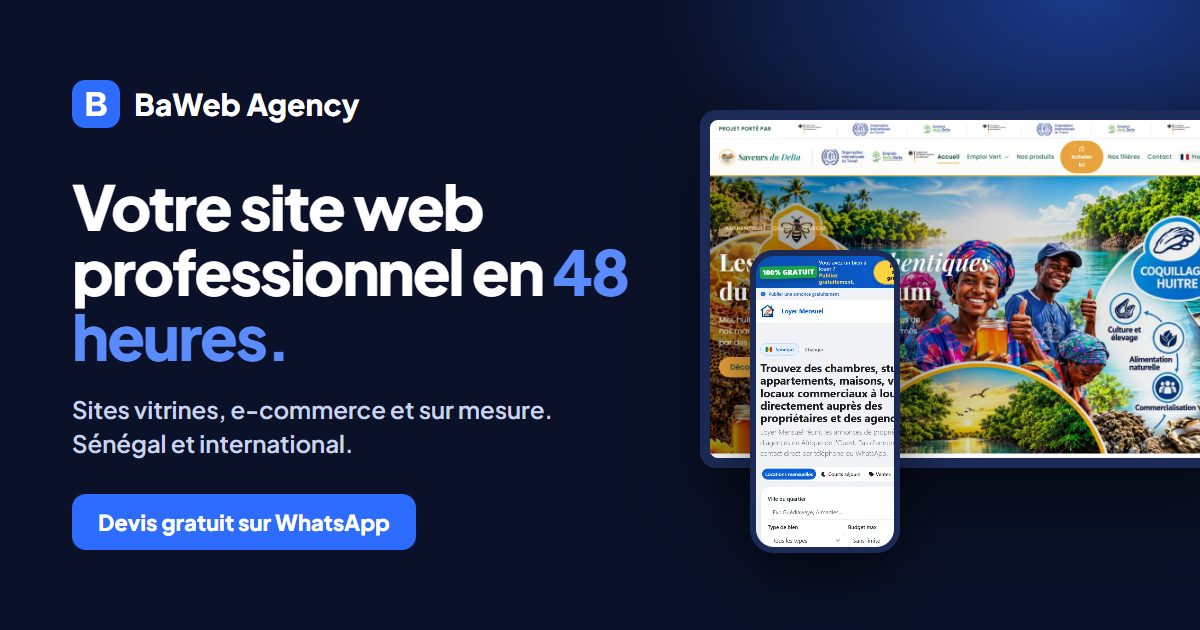
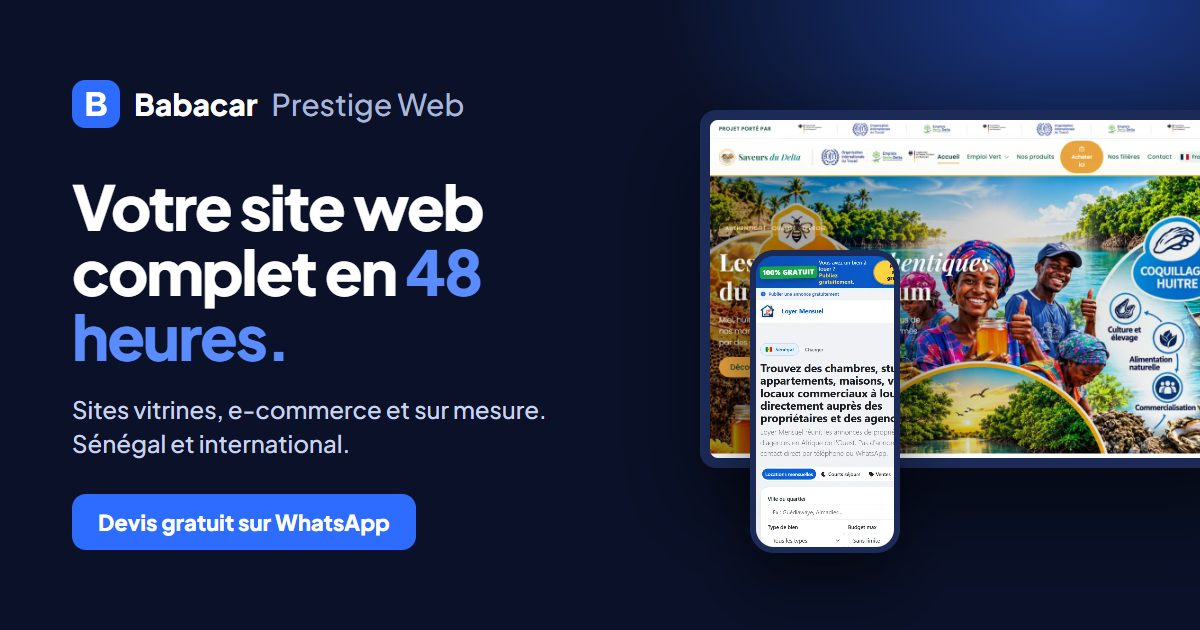
Renommer l'agence en Babacar Prestige Web et titre « site web complet »

Changed region(s): [[0.0617, 0.3921, 0.5242, 0.4825], [0.0617, 0.6333, 0.4625, 0.7238], [0.1233, 0.1508, 0.4008, 0.2111]]

diff --git a/index.html b/index.html
@@ -3,14 +3,14 @@
 <head>
   <meta charset="utf-8">
   <meta name="viewport" content="width=device-width, initial-scale=1">
-  <title>BaWeb Agency — Votre site web complet livré en 48 heures</title>
+  <title>Babacar Prestige Web — Votre site web complet livré en 48 heures</title>
   <meta name="description" content="Agence de création de sites web au Sénégal et à l'international. Sites vitrines, e-commerce et sur mesure, modernes et responsives, livrés en 48 heures. Devis gratuit sur WhatsApp.">
   <link rel="canonical" href="https://babacar053.github.io/baweb-agency/">
   <meta name="theme-color" content="#0a1128">
   <meta property="og:type" content="website">
   <meta property="og:locale" content="fr_FR">
-  <meta property="og:site_name" content="BaWeb Agency">
-  <meta property="og:title" content="BaWeb Agency — Votre site web complet en 48 heures">
+  <meta property="og:site_name" content="Babacar Prestige Web">
+  <meta property="og:title" content="Babacar Prestige Web — Votre site web complet en 48 heures">
   <meta property="og:description" content="Sites web modernes, rapides et professionnels livrés en 48 heures. Fonctionnalités offertes, accompagnement personnalisé.">
   <meta property="og:url" content="https://babacar053.github.io/baweb-agency/">
   <meta property="og:image" content="https://babacar053.github.io/baweb-agency/assets/img/og-image.jpg">
@@ -30,7 +30,7 @@
   {
     "@context": "https://schema.org",
     "@type": "ProfessionalService",
-    "name": "BaWeb Agency",
+    "name": "Babacar Prestige Web",
     "description": "Agence de création de sites web : sites vitrines, e-commerce et sur mesure livrés en 48 heures.",
     "url": "https://babacar053.github.io/baweb-agency/",
     "areaServed": ["Sénégal", "International"],

diff --git a/a-propos.html b/a-propos.html
@@ -3,14 +3,14 @@
 <head>
   <meta charset="utf-8">
   <meta name="viewport" content="width=device-width, initial-scale=1">
-  <title>À propos — Agence de création de sites web | BaWeb Agency</title>
-  <meta name="description" content="BaWeb Agency aide les entreprises à réussir sur Internet : conception de sites web, développement, design responsive et digitalisation. Rapidité, qualité et proximité.">
+  <title>À propos — Agence de création de sites web | Babacar Prestige Web</title>
+  <meta name="description" content="Babacar Prestige Web aide les entreprises à réussir sur Internet : conception de sites web, développement, design responsive et digitalisation. Rapidité, qualité et proximité.">
   <link rel="canonical" href="https://babacar053.github.io/baweb-agency/a-propos">
   <meta name="theme-color" content="#0a1128">
   <meta property="og:type" content="website">
   <meta property="og:locale" content="fr_FR">
-  <meta property="og:site_name" content="BaWeb Agency">
-  <meta property="og:title" content="À propos — BaWeb Agency">
+  <meta property="og:site_name" content="Babacar Prestige Web">
+  <meta property="og:title" content="À propos — Babacar Prestige Web">
   <meta property="og:description" content="Nous aidons les entreprises à réussir sur Internet.">
   <meta property="og:url" content="https://babacar053.github.io/baweb-agency/a-propos">
   <meta property="og:image" content="https://babacar053.github.io/baweb-agency/assets/img/og-image.jpg">

diff --git a/realisations.html b/realisations.html
@@ -3,14 +3,14 @@
 <head>
   <meta charset="utf-8">
   <meta name="viewport" content="width=device-width, initial-scale=1">
-  <title>Nos réalisations — Portfolio | BaWeb Agency</title>
-  <meta name="description" content="Découvrez les sites web réalisés par BaWeb Agency : Saveurs du Delta, École du Savon, Loyer Mensuel. Des sites modernes, responsives et en ligne.">
+  <title>Nos réalisations — Portfolio | Babacar Prestige Web</title>
+  <meta name="description" content="Découvrez les sites web réalisés par Babacar Prestige Web : Saveurs du Delta, École du Savon, Loyer Mensuel. Des sites modernes, responsives et en ligne.">
   <link rel="canonical" href="https://babacar053.github.io/baweb-agency/realisations">
   <meta name="theme-color" content="#0a1128">
   <meta property="og:type" content="website">
   <meta property="og:locale" content="fr_FR">
-  <meta property="og:site_name" content="BaWeb Agency">
-  <meta property="og:title" content="Nos réalisations — BaWeb Agency">
+  <meta property="og:site_name" content="Babacar Prestige Web">
+  <meta property="og:title" content="Nos réalisations — Babacar Prestige Web">
   <meta property="og:description" content="Des sites réels, en ligne aujourd'hui : gastronomie, formation, immobilier.">
   <meta property="og:url" content="https://babacar053.github.io/baweb-agency/realisations">
   <meta property="og:image" content="https://babacar053.github.io/baweb-agency/assets/img/og-image.jpg">

diff --git a/services.html b/services.html
@@ -3,14 +3,14 @@
 <head>
   <meta charset="utf-8">
   <meta name="viewport" content="width=device-width, initial-scale=1">
-  <title>Nos services — Site vitrine, e-commerce et sur mesure | BaWeb Agency</title>
+  <title>Nos services — Site vitrine, e-commerce et sur mesure | Babacar Prestige Web</title>
   <meta name="description" content="Création de sites vitrines, sites e-commerce et sites professionnels sur mesure. Design moderne, responsive et livraison en 48 heures pour les projets standards.">
   <link rel="canonical" href="https://babacar053.github.io/baweb-agency/services">
   <meta name="theme-color" content="#0a1128">
   <meta property="og:type" content="website">
   <meta property="og:locale" content="fr_FR">
-  <meta property="og:site_name" content="BaWeb Agency">
-  <meta property="og:title" content="Nos services — BaWeb Agency">
+  <meta property="og:site_name" content="Babacar Prestige Web">
+  <meta property="og:title" content="Nos services — Babacar Prestige Web">
   <meta property="og:description" content="Sites vitrines, e-commerce et sur mesure : le site qu'il faut pour votre activité.">
   <meta property="og:url" content="https://babacar053.github.io/baweb-agency/services">
   <meta property="og:image" content="https://babacar053.github.io/baweb-agency/assets/img/og-image.jpg">

diff --git a/tarifs.html b/tarifs.html
@@ -3,14 +3,14 @@
 <head>
   <meta charset="utf-8">
   <meta name="viewport" content="width=device-width, initial-scale=1">
-  <title>Nos tarifs — Site vitrine dès 200 000 FCFA | BaWeb Agency</title>
+  <title>Nos tarifs — Site vitrine dès 200 000 FCFA | Babacar Prestige Web</title>
   <meta name="description" content="Site vitrine professionnel à partir de 200 000 FCFA, livré en 48 heures pour les projets standards. Projets sur mesure sur devis. Fonctionnalités offertes.">
   <link rel="canonical" href="https://babacar053.github.io/baweb-agency/tarifs">
   <meta name="theme-color" content="#0a1128">
   <meta property="og:type" content="website">
   <meta property="og:locale" content="fr_FR">
-  <meta property="og:site_name" content="BaWeb Agency">
-  <meta property="og:title" content="Nos tarifs — BaWeb Agency">
+  <meta property="og:site_name" content="Babacar Prestige Web">
+  <meta property="og:title" content="Nos tarifs — Babacar Prestige Web">
   <meta property="og:description" content="Site vitrine dès 200 000 FCFA, livré en 48 h. Sur mesure sur devis.">
   <meta property="og:url" content="https://babacar053.github.io/baweb-agency/tarifs">
   <meta property="og:image" content="https://babacar053.github.io/baweb-agency/assets/img/og-image.jpg">

diff --git a/contact.html b/contact.html
@@ -3,14 +3,14 @@
 <head>
   <meta charset="utf-8">
   <meta name="viewport" content="width=device-width, initial-scale=1">
-  <title>Contact et devis gratuit | BaWeb Agency</title>
+  <title>Contact et devis gratuit | Babacar Prestige Web</title>
   <meta name="description" content="Demandez votre devis gratuit pour la création de votre site web. Réponse rapide sur WhatsApp. Intervention au Sénégal et à l'international.">
   <link rel="canonical" href="https://babacar053.github.io/baweb-agency/contact">
   <meta name="theme-color" content="#0a1128">
   <meta property="og:type" content="website">
   <meta property="og:locale" content="fr_FR">
-  <meta property="og:site_name" content="BaWeb Agency">
-  <meta property="og:title" content="Contact et devis gratuit — BaWeb Agency">
+  <meta property="og:site_name" content="Babacar Prestige Web">
+  <meta property="og:title" content="Contact et devis gratuit — Babacar Prestige Web">
   <meta property="og:description" content="Parlez-nous de votre projet. Réponse rapide sur WhatsApp.">
   <meta property="og:url" content="https://babacar053.github.io/baweb-agency/contact">
   <meta property="og:image" content="https://babacar053.github.io/baweb-agency/assets/img/og-image.jpg">

diff --git a/404.html b/404.html
@@ -3,7 +3,7 @@
 <head>
   <meta charset="utf-8">
   <meta name="viewport" content="width=device-width, initial-scale=1">
-  <title>Page introuvable | BaWeb Agency</title>
+  <title>Page introuvable | Babacar Prestige Web</title>
   <meta name="robots" content="noindex">
   <meta name="theme-color" content="#0a1128">
   <link href="https://fonts.googleapis.com/css2?family=Plus+Jakarta+Sans:wght@500;700;800&display=swap" rel="stylesheet">

diff --git a/assets/js/main.js b/assets/js/main.js
@@ -1,5 +1,5 @@
 /* =========================================================
-   BaWeb Agency — script principal (JavaScript natif)
+   Babacar Prestige Web — script principal (JavaScript natif)
    Rendu de l'en-tête, du pied de page, des sections
    alimentées par data.js, animations et formulaire.
    ========================================================= */

diff --git a/assets/js/config.js b/assets/js/config.js
@@ -4,8 +4,8 @@
    ========================================================= */
 window.SITE = {
   // Identité
-  name: "BaWeb Agency",
-  shortName: "BaWeb",
+  name: "Babacar Prestige Web",
+  shortName: "Babacar",
   tagline: "Votre site web complet livré en 48 heures.",
 
   // URL publique du site (utilisée pour le partage). Doit finir par "/".

diff --git a/README.md b/README.md
@@ -1,4 +1,4 @@
-# BaWeb Agency — site vitrine
+# Babacar Prestige Web — site vitrine
 
 Site vitrine d'agence web, **100 % statique** : HTML + Bootstrap 5 + CSS + JavaScript natif.
 Aucun langage serveur, aucune base de données, aucun build : il s'héberge gratuitement sur **GitHub Pages**.
@@ -55,7 +55,7 @@ npx serve .
    ```bash
    git init
    git add .
-   git commit -m "Site BaWeb Agency"
+   git commit -m "Site Babacar Prestige Web"
    git branch -M main
    git remote add origin https://github.com/Babacar053/baweb-agency.git
    git push -u origin main
